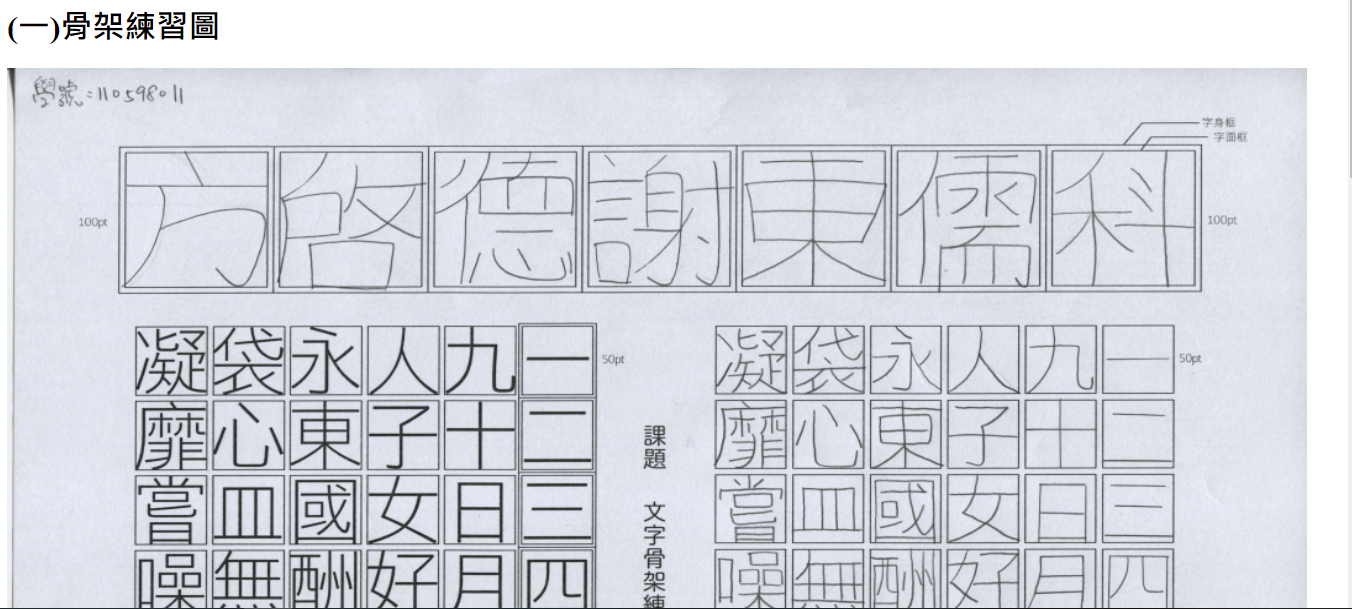
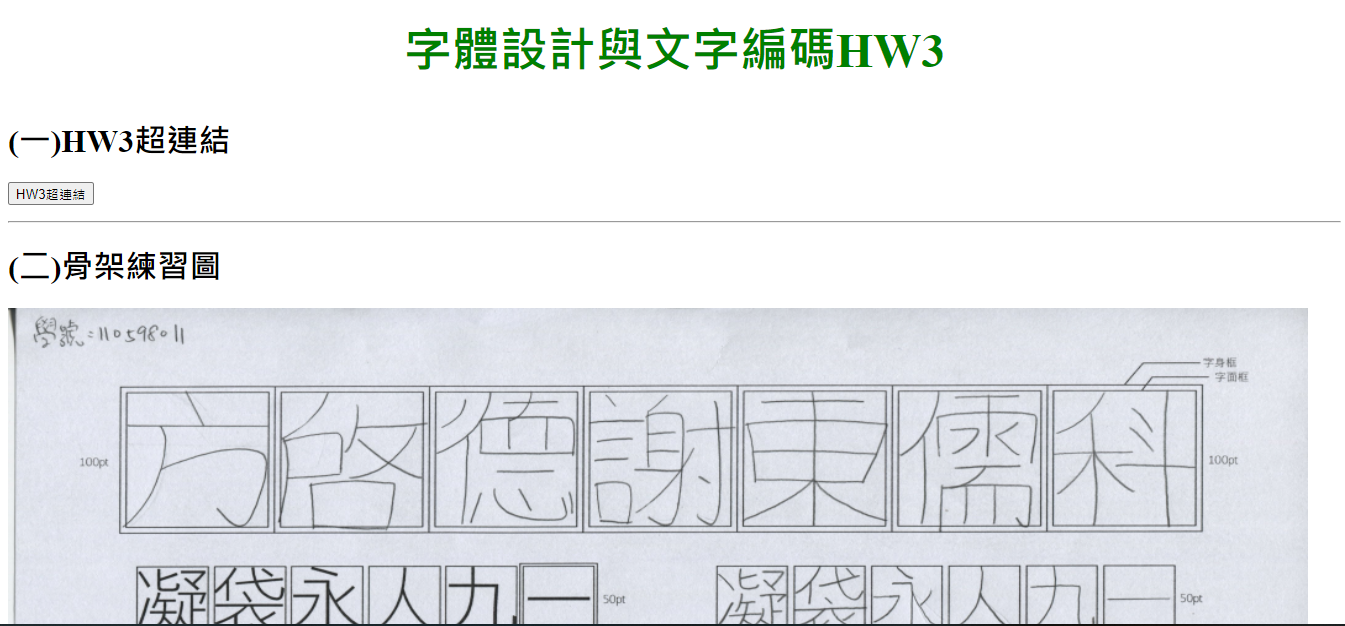
Add files via upload

diff --git a/hw03/index.html b/hw03/index.html
@@ -5,9 +5,27 @@
 	<meta name="viewport" content="width=device-width, initial-scale=1">
 	<title>hw03 index.html</title>
 </head>
+
 <body>
 	<p>
-		<h1>(一)骨架練習圖</h1>
+		<div style="text-align:center">
+			<b>
+				<font color="green" size="40">字體設計與文字編碼HW3</font>
+			</b>
+		</div>
+		<br>
+	</p>
+
+	<p>
+		<h1>(一)HW3超連結</h1>
+		<a href="https://t109598105.github.io/CT2021s-hw3-example/">
+			<input type="button" value="HW3超連結"></a>
+	</p>
+	<hr>
+
+
+	<p>
+		<h1>(二)骨架練習圖</h1>
 			<img src="skeleton_PNG.png"
 			width="1300"
 			height="900">
@@ -15,44 +33,55 @@
 	<hr>
 	
 	<p>
-		<h1>(二)黑體</h1>
+		<h1>(三)黑體</h1>
+		<div style="float:left ; width:50% ; height:50%">
+			<h2>骨架</h2>
+			<table style="border:8px #FFD382 groove;width: 40%" cellpadding="20" cellspacing="0">
+				<tbody><tr>
+				<td>　<img alt="" src="Fang.png" width="150" height="150">　</td>
+				<td>　<img alt="" src="Chi.png" width="150" height="150">　</td>
+				<td>　<img alt="" src="Te.png" width="150" height="150">　</td>
+				</tr></tbody></table>
+		</div>
 
-		<h2>骨架</h2>
-		<table cellpadding="0" cellspacing="0" style="width: 40%;">
-			<tbody><tr>
-			<td>　<img alt="" src="Fang.png" width="150" height="150">　</td>
-			<td>　<img alt="" src="Chi.png" width="150" height="150">　</td>
-			<td>　<img alt="" src="Te.png" width="150" height="150">　</td>
-			</tr></tbody></table>
-
-		<h2>黑體</h2>
-		<table cellpadding="0" cellspacing="0" style="width: 40%;">
-			<tbody><tr>
-			<td>　<img alt="" src="Fang_san.svg" width="150" height="150">　</td>
-			<td>　<img alt="" src="Chi_san.svg" width="150" height="150">　</td>
-			<td>　<img alt="" src="Te_san.svg" width="150" height="150">　</td>
-			</tr></tbody></table>
+		<div style="float:right ; width:50% ; height:50%">
+			<h2>黑體</h2>
+			<table style="border:8px #FFD382 groove;width: 40%" cellpadding="20" cellspacing="0">
+				<tbody><tr>
+				<td>　<img alt="" src="Fang_san.svg" width="150" height="150">　</td>
+				<td>　<img alt="" src="Chi_san.svg" width="150" height="150">　</td>
+				<td>　<img alt="" src="Te_san.svg" width="150" height="150">　</td>
+				</tr></tbody></table>
+		</div>
 	</p>
+
 	<hr>
-
+	
 	<p>
-		<h1>(三)宋體</h1>
+		<div style="float:center; width:50% ; height:50%">
+			<h1>(四)宋體</h1>
+		</div>
 
+		<div style="float:left ; width:50% ; height:50%">
 		<h2>骨架</h2>
-		<table cellpadding="0" cellspacing="0" style="width: 40%;">
+		<table style="border:8px #FFD382 groove;width: 40%;" cellpadding="20" cellspacing="0">
 			<tbody><tr>
 			<td>　<img alt="" src="Fang.png" width="150" height="150">　</td>
 			<td>　<img alt="" src="Chi.png" width="150" height="150">　</td>
 			<td>　<img alt="" src="Te.png" width="150" height="150">　</td>
 			</tr></tbody></table>
+		</div>
 
+		<div style="float:right ; width:50% ; height:50%">
 		<h2>宋體</h2>
-		<table cellpadding="0" cellspacing="0" style="width: 40%;">
+		<table style="border:8px #FFD382 groove;width: 40%" cellpadding="20" cellspacing="0">
 			<tbody><tr>
 			<td>　<img alt="" src="Fang_son.svg" width="150" height="150">　</td>
 			<td>　<img alt="" src="Chi_son.svg" width="150" height="150">　</td>
 			<td>　<img alt="" src="Te_son.svg" width="150" height="150">　</td>
 			</tr></tbody></table>
+		</div>
 	</p>
+
 </body>
 </html>
